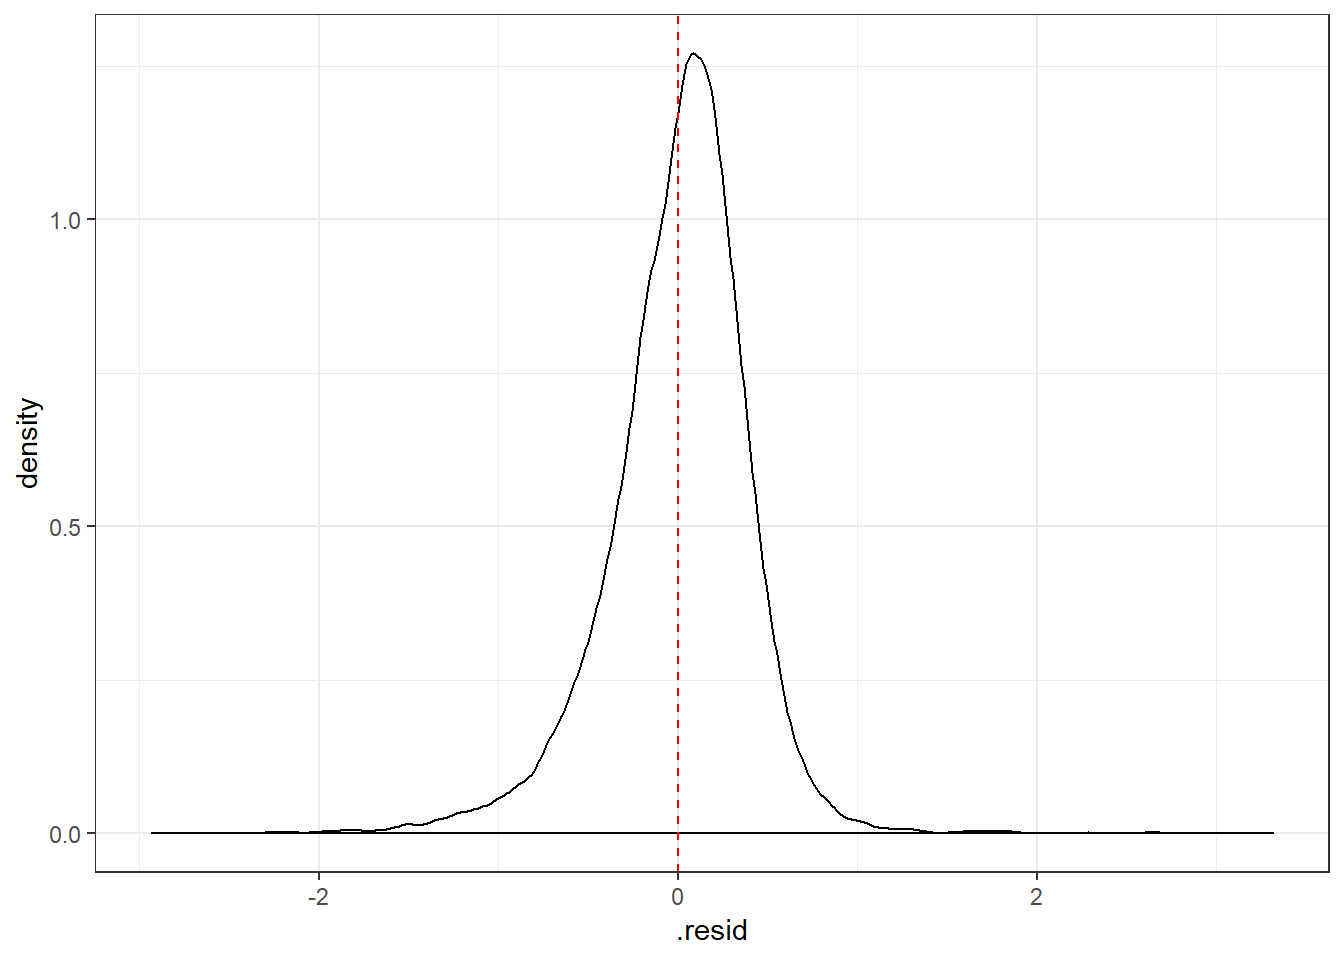
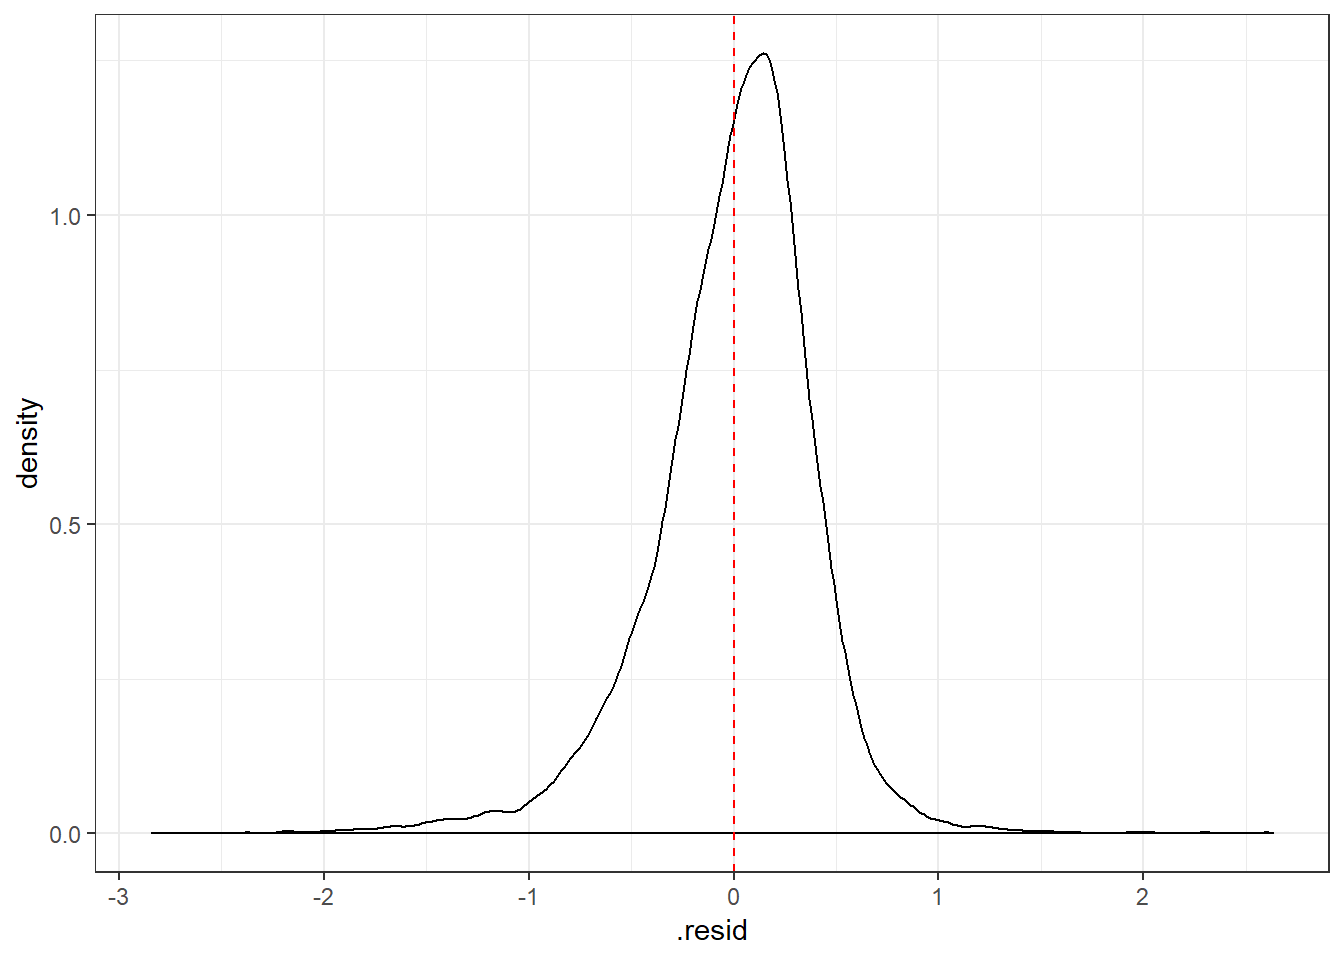
added bullet list of model features

diff --git a/content/post/2019-01-13-modeling-pittsburgh-house-sales-linear.html b/content/post/2019-01-13-modeling-pittsburgh-house-sales-linear.html
@@ -109,6 +109,20 @@ glimpse(df)</code></pre>
 ## $ fullbaths_asmt                &lt;dbl&gt; 1, 1, 1, 1, 1, 1, 1, 4, 1, 1, 1,...
 ## $ halfbaths_asmt                &lt;dbl&gt; 0, 1, 1, 0, 0, 1, 1, 0, 0, 1, 1,...
 ## $ saleprice_asmt_log10          &lt;dbl&gt; 4.6128, 4.9149, 5.6314, 4.1761, ...</code></pre>
+<p>As shown in the data above, the model uses the following features to predict sale price:</p>
+<ul>
+<li>municipality name</li>
+<li>primary use of the parcel</li>
+<li>style of building</li>
+<li>condition of the structure</li>
+<li>grade of construction</li>
+<li>living area in square feet</li>
+<li>lot area in square feet</li>
+<li>year the house was built</li>
+<li>number of bedrooms</li>
+<li>number of full baths</li>
+<li>number of half-baths</li>
+</ul>
 <p>This code sets up the data for cross validation.</p>
 <pre class="r"><code>#create initial split object
 df_split &lt;- initial_split(df, prop = .75)
@@ -199,11 +213,11 @@ cv_eval_lm %&gt;%
 <pre><code>## # A tibble: 5 x 4
 ##   id    validate_mae validate_rmse adj.r.squared
 ##   &lt;chr&gt;        &lt;dbl&gt;         &lt;dbl&gt;         &lt;dbl&gt;
-## 1 Fold1        0.295         0.405         0.449
-## 2 Fold2        0.299         0.409         0.448
-## 3 Fold3        0.297         0.409         0.448
-## 4 Fold4        0.297         0.408         0.446
-## 5 Fold5        0.294         0.403         0.448</code></pre>
+## 1 Fold1        0.297         0.409         0.447
+## 2 Fold2        0.292         0.400         0.446
+## 3 Fold3        0.297         0.412         0.449
+## 4 Fold4        0.299         0.406         0.450
+## 5 Fold5        0.291         0.397         0.446</code></pre>
 <p>Finally, this calculates how well the model did on the validation set.</p>
 <pre class="r"><code>#summarize fit metrics
 cv_eval_lm %&gt;% 
@@ -212,7 +226,7 @@ cv_eval_lm %&gt;%
 <pre><code>## # A tibble: 1 x 3
 ##   validate_mae validate_rmse adj.r.squared
 ##          &lt;dbl&gt;         &lt;dbl&gt;         &lt;dbl&gt;
-## 1        0.296         0.407         0.448</code></pre>
+## 1        0.295         0.405         0.448</code></pre>
 <p>Next, I apply the model to the testing data to see how the model does out-of-sample.</p>
 <pre class="r"><code>#create dfs for train_data_small and validate_data
 train_data_small &lt;- cv_prep_lm %&gt;% 
@@ -279,11 +293,11 @@ augment_validate %&gt;%
 <p>This calculates how well the model predicted sale price on out-of-sample testing data.</p>
 <pre class="r"><code>#calculate fit of model on test data
 rmse(model, testing_data)</code></pre>
-<pre><code>## [1] 0.40069</code></pre>
+<pre><code>## [1] 0.40689</code></pre>
 <pre class="r"><code>mae(model, testing_data)</code></pre>
-<pre><code>## [1] 0.29337</code></pre>
+<pre><code>## [1] 0.29679</code></pre>
 <pre class="r"><code>rsquare(model, testing_data)</code></pre>
-<pre><code>## [1] 0.44923</code></pre>
+<pre><code>## [1] 0.44955</code></pre>
 <p>These plots show how the model performed against the testing data.</p>
 <pre class="r"><code>#visualize model on test data
 test_augment &lt;- augment(model, newdata = testing_data)
